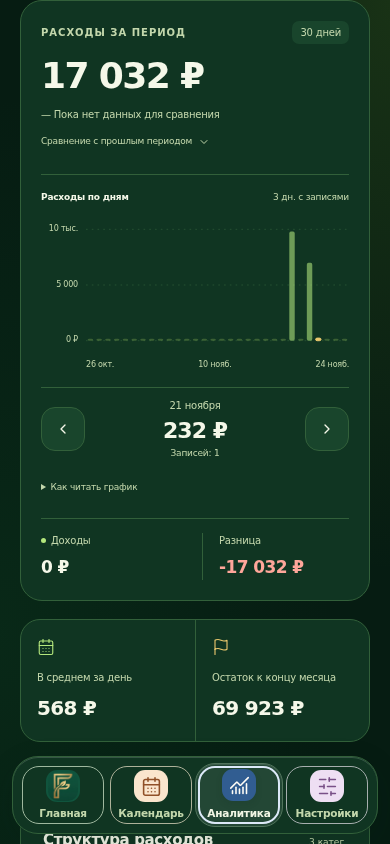
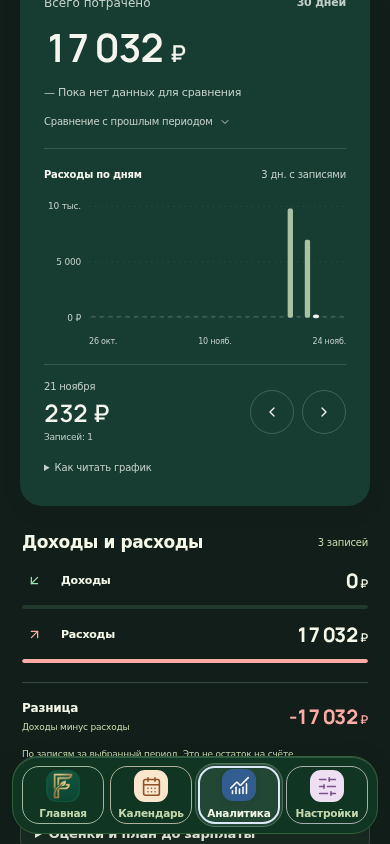
v89: refine analytics into a quiet high-contrast financial report

diff --git a/analytics-premium.css b/analytics-premium.css
@@ -1,0 +1,94 @@
+/* v89 · a quiet, high-contrast report. Scoped to analytics; no ledger behaviour. */
+body #view-analytics { --report-hero:#173c32; --report-highlight:#c1dbb5; --report-ink:#f3f5ee; --report-muted:#c0cfc7; }
+html[data-visual-style='sapphire'] body #view-analytics { --report-hero:#182f47; --report-highlight:#a8ccec; }
+html[data-visual-style='growth'] body #view-analytics { --report-hero:#293b2b; --report-highlight:#c9dca8; }
+body #view-analytics .ap-page-heading { padding:12px 2px 4px; margin-bottom:12px; }
+body #view-analytics .ap-eyebrow { font-size:11px; font-weight:600; letter-spacing:.03em; text-transform:none; color:var(--text-secondary); margin-bottom:8px; }
+body #view-analytics .ap-page-heading h2 { font-size:34px; font-weight:650; line-height:1.15; letter-spacing:-.045em; }
+body #view-analytics .ap-page-heading p { font-size:12px; margin-top:8px; color:var(--text-secondary); }
+body #view-analytics .ftx-ap { padding-top:0; }
+body #view-analytics .ap-period-panel { border:0; background:none; padding:0; margin:0 0 20px; border-radius:0; }
+body #view-analytics .ap-period-title { position:absolute; width:1px; height:1px; overflow:hidden; clip-path:inset(50%); white-space:nowrap; }
+body #view-analytics .ap-period-panel .ftx-ap-pills { background:var(--surface-2); padding:4px; border:1px solid var(--border-subtle); border-radius:14px; margin:0 0 10px; }
+body #view-analytics .ap-period-panel .ftx-ap-pill { min-height:44px; font-size:12px; font-weight:600; border-radius:10px; transition:background-color 180ms ease,color 180ms ease; }
+body #view-analytics .ap-period-panel .ftx-ap-pill.active { background:var(--text-primary); color:var(--surface-1); box-shadow:none; }
+body #view-analytics .ap-period-dates { text-align:center; }
+body #view-analytics .ap-period-dates strong { font-size:10px; font-weight:500; color:var(--text-secondary); }
+body #view-analytics .ftx-ap-tabs { gap:20px; margin-bottom:20px; }
+body #view-analytics .ftx-ap-tab { min-height:44px; padding-bottom:12px; font-size:12px; font-weight:500; }
+body #view-analytics .ftx-ap-tab.active { font-weight:750; }
+body #view-analytics .ftx-ap-tab.active::after { left:0; right:0; height:2px; background:var(--accent); }
+body #view-analytics .ftx-ap-card { border-radius:22px; padding:22px; margin-bottom:20px; }
+body #view-analytics .ftx-ap-card.ap-expense-hero {
+ --text-primary:var(--report-ink); --text-secondary:var(--report-muted); --text-muted:var(--report-muted);
+ --number-ink:var(--report-ink); --accent:var(--report-highlight); --gold:var(--report-ink);
+ --border-subtle:#ffffff24; --border-active:#ffffff60; --surface-2:#ffffff0d;
+ background:var(--report-hero); border:0; padding:24px; box-shadow:0 8px 24px #001a0b0b;
+}
+body #view-analytics .ap-expense-hero .ftx-ap-kicker { color:var(--report-muted); font-size:12px; text-transform:none; letter-spacing:0; font-weight:500; }
+body #view-analytics .ap-expense-hero .ap-period-caption { padding:0; background:none; color:var(--report-muted); font-size:11px; }
+body #view-analytics .ap-expense-hero .ftx-ap-big { margin:12px 0 10px; font-size:clamp(34px,10vw,46px); font-weight:650; letter-spacing:-.04em; }
+body #view-analytics .ap-expense-hero .ftx-ap-big[data-number-size=medium] { font-size:32px; }
+body #view-analytics .ap-expense-hero .ftx-ap-big[data-number-size=wide] { font-size:25px; }
+body #view-analytics .ap-expense-hero .ftx-ap-delta { color:var(--report-muted); border:0; font-size:11px; }
+body #view-analytics .ap-expense-hero .ap-comparison summary { min-height:32px; font-size:10px; color:var(--report-muted); }
+body #view-analytics .ap-bar-trend { margin-top:10px; padding-top:18px; }
+body #view-analytics .ap-bar-trend figcaption { font-size:10px; margin-bottom:14px; }
+body #view-analytics .ap-bar-trend .ap-y-axis { font-size:9px; }
+body #view-analytics .ap-day-bar { fill:var(--report-highlight); opacity:.85; }
+body #view-analytics .ap-day-bar.is-selected { fill:var(--report-ink); stroke:var(--report-ink); opacity:1; }
+body #view-analytics .ap-day-unrecorded { fill:var(--report-muted); opacity:.2; }
+body #view-analytics .ap-day-unrecorded.is-selected { opacity:1; }
+body #view-analytics .ap-chart-grid { stroke:#ffffff20; stroke-dasharray:2 5; }
+body #view-analytics .ap-bar-trend .ap-trend-readout { grid-template-columns:minmax(0,1fr) 44px 44px; gap:8px; padding:14px 0 0; min-height:78px; }
+body #view-analytics .ap-bar-trend .ap-trend-readout > div { order:-1; text-align:left; }
+body #view-analytics .ap-bar-trend .ap-trend-count { text-align:left; }
+body #view-analytics .ap-bar-trend .ap-trend-value { font-size:24px; font-weight:600; }
+body #view-analytics .ap-bar-trend .ap-trend-readout > button { border-color:#ffffff30; background:none; border-radius:50%; }
+body #view-analytics .ap-chart-help summary { color:var(--report-muted); font-size:10px; min-height:32px; padding-top:12px; }
+body #view-analytics .ap-cashflow { border:0; border-radius:0; padding:6px 2px 24px; margin:0 0 24px; background:none; border-bottom:1px solid var(--border-subtle); box-shadow:none; }
+body #view-analytics .ap-cashflow-kicker { display:none; }
+body #view-analytics .ap-cashflow-heading h3 { font-size:17px; font-weight:650; letter-spacing:-.025em; }
+body #view-analytics .ap-record-count { background:none; padding:0; color:var(--text-secondary); font-size:10px; }
+body #view-analytics .ap-cashflow-icon { background:none; border:0; width:24px; height:28px; border-radius:0; }
+body #view-analytics .ap-cashflow-track { height:4px; border-radius:2px; }
+body #view-analytics .ap-cashflow-track > span { border-radius:2px; }
+body #view-analytics .ap-distribution { background:var(--surface-1); }
+body #view-analytics .ftx-ap-section-title { font-size:16px; font-weight:650; letter-spacing:-.025em; }
+body #view-analytics .ftx-ap-section-sub { font-size:10px; font-weight:500; letter-spacing:0; }
+body #view-analytics .ap-distribution-visual { margin:22px 0; gap:22px; }
+body #view-analytics .ap-donut circle { stroke-width:9px; }
+body #view-analytics .ap-distribution-leader > strong { font-size:16px; }
+body #view-analytics .ap-category-row { padding:14px 0; }
+body #view-analytics .ap-category-rail { height:3px; opacity:.8; }
+body #view-analytics .ap-category-name { font-size:12px; }
+body #view-analytics .ap-category-amount { font-size:13px; font-weight:650; }
+body #view-analytics .ap-category-link { margin-top:14px; min-height:44px; background:none; border:0; border-top:1px solid var(--border-subtle); border-radius:0; padding:16px 0 0; font-weight:600; text-align:left; }
+body #view-analytics .ftx-ap-cat { border:0; border-bottom:1px solid var(--border-subtle); border-radius:0; background:none; padding:18px 0; margin:0; }
+body #view-analytics .ftx-ap-cat.open { background:var(--surface-2); padding:18px 12px; border-radius:12px; }
+body #view-analytics .ftx-ap-cat-icon { width:32px; height:32px; border-radius:50%; }
+body #view-analytics .ftx-ap-cat-top { font-size:13px; }
+body #view-analytics .ftx-ap-bar { height:3px; }
+body #view-analytics .ap-planning-details { margin-bottom:20px; }
+@media(max-width:359px) {
+ body #view-analytics .ftx-ap-card { padding:18px; }
+ body #view-analytics .ftx-ap-card.ap-expense-hero { padding:20px 16px; }
+ body #view-analytics .ap-distribution-visual { gap:14px; }
+ body #view-analytics .ap-expense-hero .ftx-ap-big[data-number-size=wide] { font-size:21px; }
+}
+/* Report canvas is deliberately quieter than the app's decorative home screen. */
+html:has(#view-analytics:not(.hidden)) { background:#f5f5ef; }
+body:has(#view-analytics:not(.hidden)) { background:#f5f5ef; }
+html.dark:has(#view-analytics:not(.hidden)), html.dark body:has(#view-analytics:not(.hidden)) { background:#111e19; }
+html.dark[data-visual-style='sapphire']:has(#view-analytics:not(.hidden)), html.dark[data-visual-style='sapphire'] body:has(#view-analytics:not(.hidden)) { background:#131d2a; }
+html.dark[data-visual-style='growth']:has(#view-analytics:not(.hidden)), html.dark[data-visual-style='growth'] body:has(#view-analytics:not(.hidden)) { background:#1b221e; }
+body:has(#view-analytics:not(.hidden)) #theme-atmosphere { display:none; }
+body #view-analytics { --surface-1:#fcfcf7; --surface-2:#ebeee5; --border-subtle:#dce2d5; }
+html.dark body #view-analytics { --surface-1:#192a22; --surface-2:#22392d; --border-subtle:#354c3e; }
+html.dark[data-visual-style='sapphire'] body #view-analytics { --surface-1:#1a2a3b; --surface-2:#26394e; --border-subtle:#354a61; }
+html.dark[data-visual-style='growth'] body #view-analytics { --surface-1:#26322a; --surface-2:#303e34; --border-subtle:#455449; }
+body #view-analytics .ap-page-heading h2 { color:var(--text-primary); }
+body #view-analytics .ap-period-dates { justify-content:center; }
+body #view-analytics .ap-record-count { border:0; }
+body #view-analytics .ap-cashflow-net { padding:16px 0 0; border:0; border-top:1px solid var(--border-subtle); border-radius:0; background:none; }
+body #view-analytics .ap-expense-hero { --surface-2:#ffffff0d; --border-subtle:#ffffff24; }

diff --git a/analytics_pro.js b/analytics_pro.js
@@ -351,7 +351,7 @@
       <div class="ap-category-row"><span class="ap-category-dot" style="background:${cat.meta.color}"></span><span class="ap-category-name">${esc(cat.name)}</span><span class="ap-category-amount money-val" ${numberAttrs(cat.total,data.currency)}>${fmt(cat.total, data.currency)}</span><span class="ap-category-share">${Math.round(cat.pct)}%</span><div class="ap-category-rail" aria-hidden="true"><span style="width:${cat.pct}%;background:${cat.meta.color}"></span></div></div>`).join('');
     return `
       <div class="ftx-ap-card gold ap-expense-hero">
-        <div class="ap-hero-heading"><div class="ftx-ap-kicker">Расходы за период</div><span class="ap-period-caption">${period.label}</span></div>
+        <div class="ap-hero-heading"><div class="ftx-ap-kicker">Всего потрачено</div><span class="ap-period-caption">${period.label}</span></div>
         <div class="ftx-ap-big money-val" ${numberAttrs(data.spent,data.currency)}>${fmt(data.spent, data.currency)}</div>
         <span class="ftx-ap-delta">${data.deltaPct > 0 ? '↗' : data.deltaPct < 0 ? '↘' : '—'} ${esc(deltaLabel)}</span>
         <details class="ap-comparison"><summary>Сравнение с прошлым периодом <i data-lucide="chevron-down" aria-hidden="true"></i></summary><p>Предыдущие ${period.days} дн.: ${previous.first} — ${previous.last}</p><strong class="money-val">${fmt(data.prevSpent, data.currency)}</strong><p>Периоды равной длины и не пересекаются. Учитываются только записанные операции.</p></details>
@@ -511,7 +511,7 @@
     else if (activeSubtab === 'categories') body = renderCategories(data);
     else body = renderRhythm(data);
 
-    container.innerHTML = `<div class="page-heading ap-page-heading"><div class="ap-eyebrow">ФИНАНСОВЫЙ ОБЗОР</div><h2>Аналитика<span aria-hidden="true">.</span></h2><p>Доходы и расходы по вашим записям</p></div><div class="ftx-ap">${renderPeriodControls(data, period)}${renderTabs()}${body}</div><details class="quiet-details ap-observations" data-ap-disclosure="observations"><summary data-ap-summary="observations">Наблюдения по записям</summary>${window.FintexBehavior?.entryHTML() || ''}</details>${renderTools()}`;
+    container.innerHTML = `<div class="page-heading ap-page-heading"><div class="ap-eyebrow">Личный отчёт</div><h2>Аналитика</h2><p>Ваши деньги. Общая картина.</p></div><div class="ftx-ap">${renderPeriodControls(data, period)}${renderTabs()}${body}</div><details class="quiet-details ap-observations" data-ap-disclosure="observations"><summary data-ap-summary="observations">Наблюдения по записям</summary>${window.FintexBehavior?.entryHTML() || ''}</details>${renderTools()}`;
     container.querySelectorAll('details[data-ap-disclosure]').forEach(el=>{el.open=disclosures.get(el.dataset.apDisclosure)||false;});
     if (focusKey) {
       const next = [...container.querySelectorAll(`[data-${focusKey[0]}]`)].find(el => el.getAttribute(`data-${focusKey[0]}`) === focusKey[1]);

diff --git a/offline-assets.js b/offline-assets.js
@@ -1,7 +1,8 @@
 /* Generated by npm run build; static resources only. */
 self.FINTEX_OFFLINE={
-  "revision": "5bea862c3529db9e",
+  "revision": "a9fdfa601443b82b",
   "core": [
+    "analytics-premium.css",
     "analytics_pro.js",
     "app-tour.js",
     "app.js",
@@ -263,10 +264,11 @@ self.FINTEX_OFFLINE={
     "assets/ocr/tesseract-core-lstm.wasm.js",
     "assets/ocr/worker.min.js"
   ],
-  "coreBytes": 3101898,
+  "coreBytes": 3110926,
   "optionalBytes": 9275493,
   "hashes": {
[6 lines of base64/hex data omitted]
@@ -483,12 +485,12 @@ self.FINTEX_OFFLINE={
[14 lines of base64/hex data omitted]

diff --git a/index.html b/index.html
@@ -22,6 +22,7 @@
   <link rel="stylesheet" href="./visual-finish.css?v=87" />
   <link rel="stylesheet" href="./motion.css?v=86" />
   <link rel="stylesheet" href="./brand-logos.css?v=88" />
+  <link rel="stylesheet" href="./analytics-premium.css?v=89" />
 </head>
 <body class="max-w-md mx-auto min-h-screen relative select-none">
 
@@ -1910,7 +1911,7 @@
   <script src="./savings-goals.js?v=76"></script>
   <script src="./investment-market.js?v=27"></script>
   <script src="./investments.js?v=27"></script>
-  <script src="./extensions.js?v=81"></script>
+  <script src="./extensions.js?v=89"></script>
   <script src="./journal-view.js?v=80"></script>
   <script src="./quick_add.js?v=72" data-fintex-mod="quick_add.js"></script>
   <script src="./sim_engine.js?v=58" data-fintex-mod="sim_engine.js"></script>

diff --git a/extensions.js b/extensions.js
@@ -151,7 +151,7 @@ window.FINTEX_EXT = {
       return;
     }
     const s = document.createElement('script');
-    s.src = `./${src}?v=${src==='analytics_pro.js'?81:src==='cosmic_intro.js'?61:34}`;
+    s.src = `./${src}?v=${src==='analytics_pro.js'?89:src==='cosmic_intro.js'?61:34}`;
     s.dataset.fintexMod = src;
     s.async = false;
     s.onload = () => {

diff --git a/README.md b/README.md
@@ -689,3 +689,14 @@ npm run test:reliability
 Источники и права: [`assets/brands/SOURCES.json`](assets/brands/SOURCES.json) содержит URL, revision, SHA-256 и сведения о лицензиях каждого файла. Russian Brand Logos: MIT относится только к коду, **не к логотипам**; см. локальное уведомление. Simple Icons 16.38.1 — CC0 для коллекции; SVG Credit Card & Payment Icons — Apache-2.0. Все товарные знаки принадлежат владельцам; разрешение на использование бренда и актуальность фирменного стиля не гарантируются. Не подразумевается связь с перечисленными компаниями.
 
 Проверки v88: сборка успешна, **143 unit-теста**, **89 связанных браузерных сценариев** и отдельная перепроверка цветового компаньона — успешны. Полный промежуточный прогон: 379 успешных, 2 ошибки; регрессия селектора банковской плитки исправлена и перепроверена, ранее известная нестабильность четырёх быстрых касаний зимнего дерева не затрагивалась. Полный набор после финальных правок повторно не запускался. Все 164 SVG декодированы браузером; проверены отсутствие внешнего logo API, офлайн-открытие нового логотипа, неизвестный/повреждённый SVG, Esc/возврат фокуса, 320 px и шесть сочетаний темы/палитры. Скриншоты просмотрены: [магазины](docs/company-logos-preview.png), [карты](docs/payment-logos-preview.png). Физический iPhone и клавиатура Telegram в этой итерации не проверялись.
+
+
+## v89 — спокойный визуальный отчёт в аналитике
+
+Вместо одинаковых зелёных карточек и нескольких равнозначных акцентов: нейтральный фон, компактный выбор периода с точными датами, контрастная карточка расходов, крупная сумма и более спокойные подписи. Убраны декоративная точка в заголовке, лишняя рамка периода и золотая подложка разницы доходов/расходов. Стрелки графика собраны рядом; цвет выбранного дня отличается от остальных. Категории оформлены аккуратными строками с тонкими полосами и облегчённой кольцевой диаграммой. Все три палитры сохраняют свой характер; декоративная погода на экране отчёта скрыта.
+
+`analytics-premium.css` — изолированный слой оформления, подключённый после общих стилей. Новый фон действует только при открытой аналитике; главная, календарь, настройки и финансовые цвета не менялись. `analytics_pro.js` изменён только в двух пользовательских подписях; расчёты и обработчики графика/периодов/категорий не затронуты. Обновлены версии динамически загружаемого модуля в `extensions.js` и офлайн-манифест.
+
+Проверки: `npm run build`, **143 unit-теста**, **73 браузерных сценария аналитики/интерфейса** и **43 связанных сценария** (движение, навигация, наблюдения, адаптация и офлайн) — успешно. Проверены 320/390/448 px, шесть сочетаний темы и палитры, длинные суммы, пустые данные, приватность, управление графиком клавиатурой/касанием, сохранение финансовых записей и возврат обычного фона при уходе из аналитики. Контраст главной суммы на тёмной поверхности Sapphire превышает 4.5:1. Два старых визуальных ожидания тестов обновлены под намеренно контрастную карточку аналитики, проверки остальных поверхностей и финансовых цветов сохранены. Полный браузерный набор в этой итерации не запускался; реальный iPhone/Telegram не проверялся.
+
+Просмотренные экраны: [светлый обзор](docs/analytics-overview-preview.png), [тёмный обзор](docs/analytics-dark-preview.png), [структура расходов](docs/expense-structure-preview.png).
